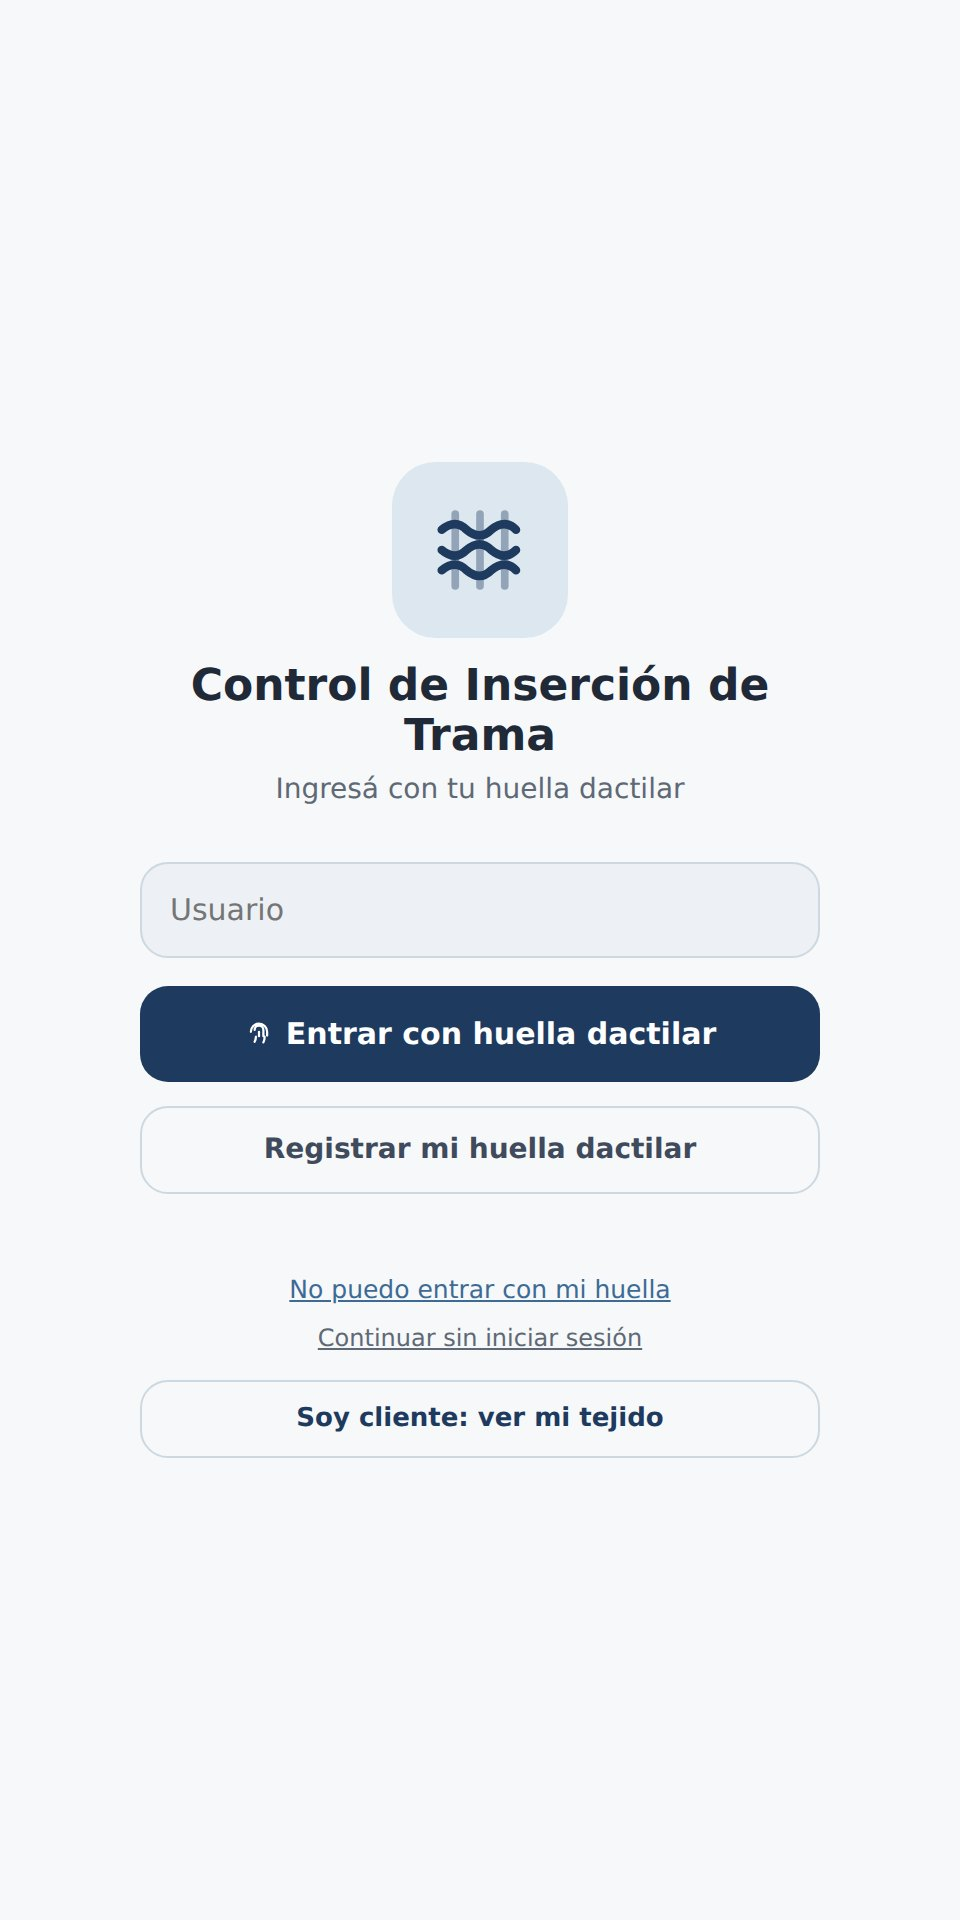
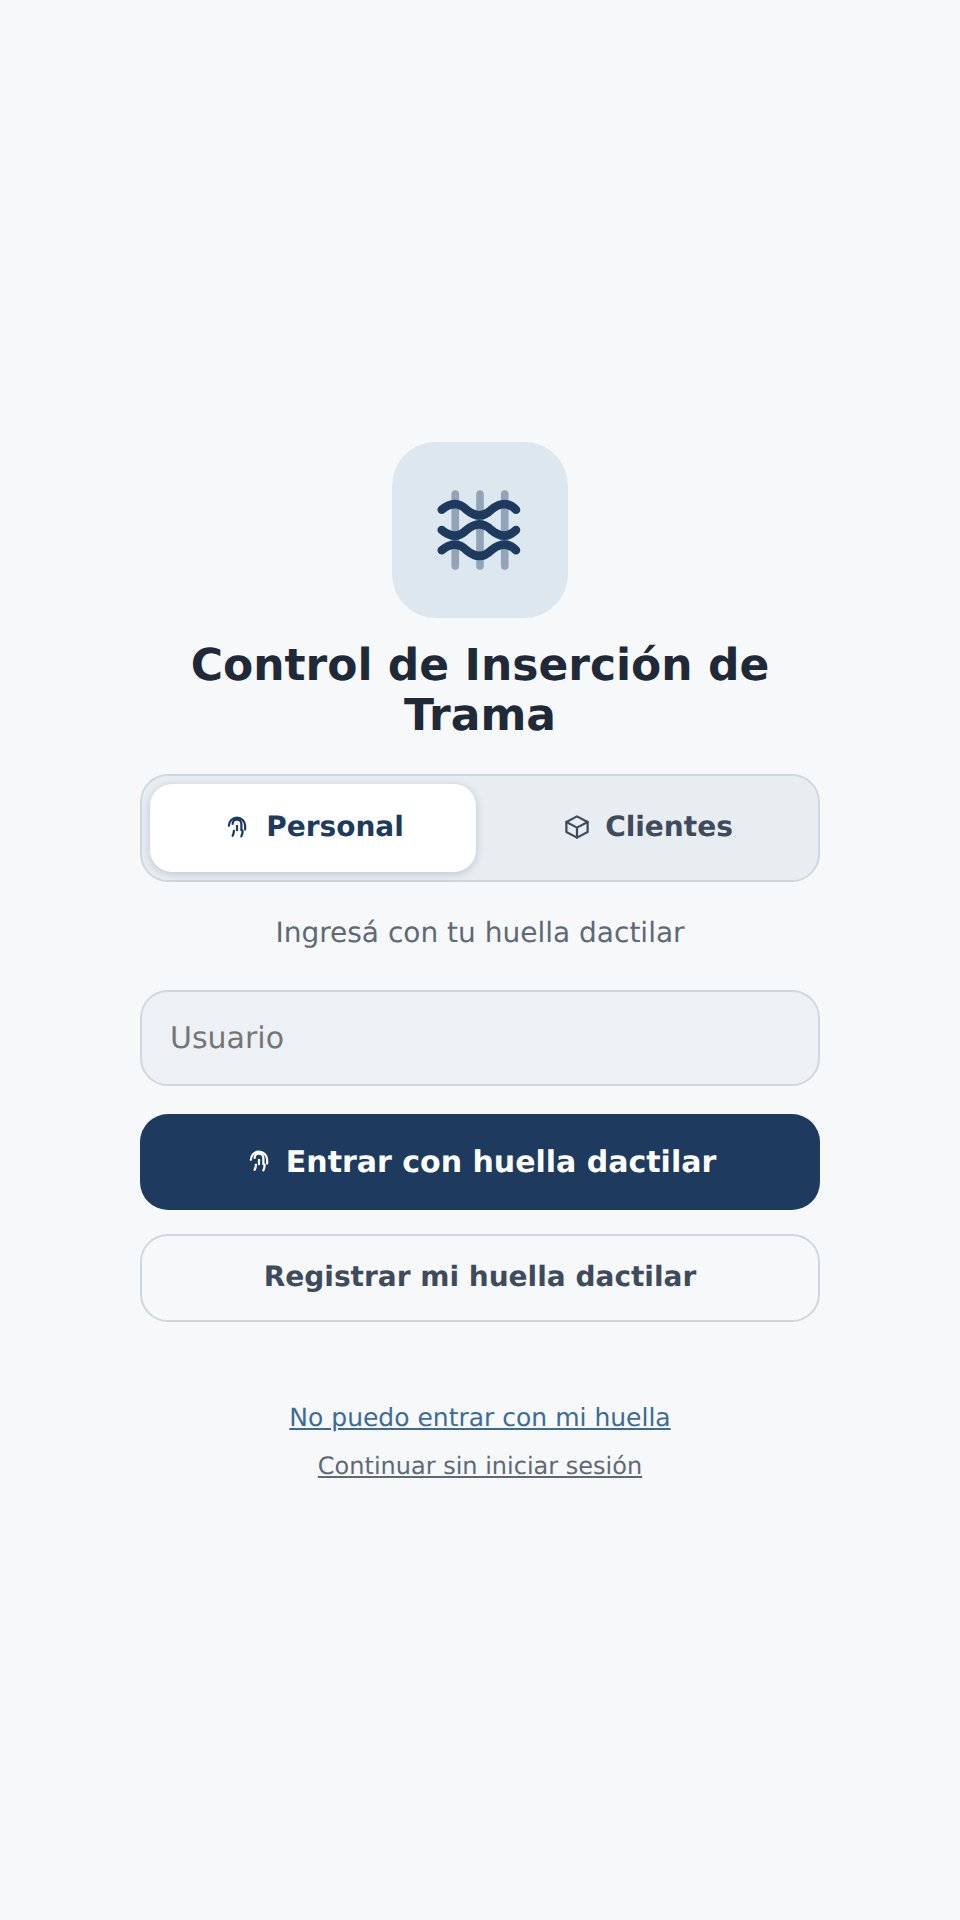
Add files via upload

Changed region(s): [[0.125, 0.2188, 0.875, 0.7812], [0.125, 0.4062, 0.1562, 0.4688]]

diff --git a/index.html b/index.html
@@ -44,7 +44,7 @@
 <a href="#s3-6" class="n1">3.6 · Evolución previsible del sistema</a>
 <a href="#s4" class="n0">4 · Requisitos Específicos</a>
 <a href="#s4-1" class="n1">4.1 · Requerimientos funcionales</a>
-<a href="#s4-2" class="n1">4.2 · Requerimentos No Funcionales (RNF)</a>
+<a href="#s4-2" class="n1">4.2 · Requerimientos No Funcionales (RNF)</a>
 <a href="#s4-3" class="n1">4.3 · Interfaces de usuario</a>
 <a href="#s4-4" class="n1">4.4 · Interfaces de software</a>
 <a href="#s4-5" class="n1">4.5 · Interfaces de comunicación</a>
@@ -160,7 +160,7 @@
 <li><b>Inicio:</b> pantalla de entrada. Muestra quién inició sesión (o el aviso de modo invitado), el dibujo que está en edición y los accesos al Editor y a la Biblioteca. Desde ahí se consulta el código de recuperación, se invita a otra persona a registrarse y se activa el modo oscuro.</li>
 <li><b>Editor de Dibujo:</b> grilla interactiva donde cada fila lleva una sola bobina (una trama por pasada), que se teje en una o más pasadas seguidas, y cada columna es una bobina de selección: tocar una celda la activa o la desactiva para esa pasada. Al costado de cada fila se indica cuántas pasadas seguidas se teje. Arriba se definen las filas (1 a 300) y las columnas (1 a 8), el nombre del dibujo con su indicador de estado, y una barra con el estado del equipo del telar (conexión, tejido y conteo del sensor) y el interruptor del control desde la página, que pasa a solo sensado (la página deja de mover la máquina y sigue mostrando lo que hace). Incluye las herramientas Limpiar, Intercalar (agrupa filas seguidas, cada una con su bobina, para que se alternen pasada por pasada: por ejemplo las filas de las bobinas 1, 3, 4 y 2 durante 120 pasadas), el simulador de color de hilo, la ficha del dibujo (metros por pasada, hilado y la clave del cliente) y la descarga de la ficha técnica en PDF; los controles ▶, Pausa, Retroceder y Terminar trabajo (⏹), que resaltan la fila que se está tejiendo; y los botones Nuevo y Guardar.</li>
 <li><b>Biblioteca de Dibujos:</b> pantalla con el listado de los dibujos guardados, un buscador por nombre y, para cada dibujo, las acciones Cargar (lo abre en el editor), Estadísticas (veces tejido, pasadas, metros y horas de máquina) y Eliminar. Cada cambio se guarda en la base PostgreSQL a través del backend, sin recargar la página.</li>
-<li><b>Vista del cliente:</b> pantalla aparte, de solo lectura, para los clientes de la fábrica. Se entra desde el ingreso, con «Soy cliente: ver mi tejido» y la clave de un tejido (la genera el operario en la ficha del dibujo), y muestra solo ese tejido: si se está tejiendo, por qué fila y pasada va, los metros tejidos y cuánto lleva del pedido, la vista previa de la tela y las últimas producciones. No tiene ningún control del telar.</li>
+<li><b>Vista del cliente:</b> pantalla aparte, de solo lectura, para los clientes de la fábrica. Se entra desde la pestaña «Clientes» de la pantalla de ingreso, con la clave de un tejido (la genera el operario en la ficha del dibujo), y muestra solo ese tejido: si se está tejiendo, por qué fila y pasada va, los metros tejidos y cuánto lleva del pedido, la vista previa de la tela y las últimas producciones. No tiene ningún control del telar.</li>
 </ul>
 <h4 id="s3-2-1">3.2.1. Guía de Estilos y Especificación Visual (Design System)</h4>
 <ul>
@@ -169,7 +169,7 @@
 </ul>
 <h4 id="s3-2-2">3.2.2. Arquitectura Backend y Modelo de Datos (PostgreSQL)</h4>
 <p>El backend, desarrollado en Node.js con Express, gestiona la lógica de negocio (transacciones, validaciones) y expone una API REST que es el único punto de acceso a la base de datos: tanto la web como el firmware del ESP32 hablan con este mismo backend por la misma API, y ninguno de los dos toca la base de datos de forma directa. La persistencia de datos se maneja en PostgreSQL, alojado en la nube sobre Neon, mediante el siguiente esquema relacional:</p>
-<div class="tw"><table><thead><tr><th scope="col">TABLA</th><th scope="col">CLAVE PRIMARIA</th><th scope="col">CAMPOS PRINCIPALES</th><th scope="col">PROPÓSITO</th></tr></thead><tbody><tr><td>patrones</td><td>id</td><td>nombre, filas (1 a 300), columnas (1 a 8), matriz_pasadas (JSONB), matriz_ligamento (JSONB), repeticiones_por_fila, colores_filas (JSONB), metadata (JSONB), metros_por_pasada, grupos_intercalados, hilado_peso_kg, hilado_metros_max, hilado_pasadas_base, creado_por_invitado</td><td>Biblioteca de matrices de tejido, independiente de los telares.</td></tr><tr><td>telares</td><td>id</td><td>codigo, nombre, estado (apagado/tejiendo/pausado/error), motivo_pausa, patron_actual_id, elementos_seleccion, control_web_activo (solo sensado) y las señales del ESP32 (último sondeo, órdenes de Retroceder, retrocesos contados, uso manual de la botonera, posición incierta)</td><td>Estado en tiempo real de cada máquina y qué patrón tiene asignado.</td></tr><tr><td>historial_producción</td><td>id</td><td>telar_id, patron_id, fecha_inicio, fecha_fin, fila_actual, repeticion_en_fila, vueltas_completadas, pasadas_totales (estimadas por reloj), pasadas_sensor (medidas), conteo_validado, estado</td><td>Trazabilidad de cada producción: posición exacta para poder retroceder, sin necesidad de reconstruir nada.</td></tr><tr><td>errores_log</td><td>id</td><td>telar_id, titulo, mensaje, codigo, creado_at</td><td>Registro de errores del sistema (reemplaza el log local que antes vivía en el navegador).</td></tr><tr><td>accesos_cliente</td><td>patron_id</td><td>cliente_nombre, clave_hash, clave_cifrada, metros_pedidos, creada_por, creada_at, ultimo_acceso</td><td>La clave con la que cada cliente ve su tejido (una por dibujo), sin guardarla legible.</td></tr></tbody></table></div>
+<div class="tw"><table><thead><tr><th scope="col">TABLA</th><th scope="col">CLAVE PRIMARIA</th><th scope="col">CAMPOS PRINCIPALES</th><th scope="col">PROPÓSITO</th></tr></thead><tbody><tr><td>patrones</td><td>id</td><td>nombre, filas (1 a 300), columnas (1 a 8), matriz_pasadas (JSONB), matriz_ligamento (JSONB), repeticiones_por_fila, colores_filas (JSONB), metadata (JSONB), metros_por_pasada, grupos_intercalados, hilado_peso_kg, hilado_metros_max, hilado_pasadas_base, creado_por_invitado</td><td>Biblioteca de matrices de tejido, independiente de los telares.</td></tr><tr><td>telares</td><td>id</td><td>codigo, nombre, estado (apagado, tejiendo, pausado o error), motivo_pausa, patron_actual_id, elementos_seleccion, control_web_activo (solo sensado) y las señales del ESP32 (último sondeo, órdenes de Retroceder, retrocesos contados, uso manual de la botonera, posición incierta)</td><td>Estado en tiempo real de cada máquina y qué patrón tiene asignado.</td></tr><tr><td>historial_producción</td><td>id</td><td>telar_id, patron_id, fecha_inicio, fecha_fin, fila_actual, repeticion_en_fila, vueltas_completadas, pasadas_totales (estimadas por reloj), pasadas_sensor (medidas), conteo_validado, estado</td><td>Trazabilidad de cada producción: posición exacta para poder retroceder, sin necesidad de reconstruir nada.</td></tr><tr><td>errores_log</td><td>id</td><td>telar_id, titulo, mensaje, codigo, creado_at</td><td>Registro de errores del sistema (reemplaza el log local que antes vivía en el navegador).</td></tr><tr><td>accesos_cliente</td><td>patron_id</td><td>cliente_nombre, clave_hash, clave_cifrada, metros_pedidos, creada_por, creada_at, ultimo_acceso</td><td>La clave con la que cada cliente ve su tejido (una por dibujo), sin guardarla legible.</td></tr></tbody></table></div>
 <p class="cap">Tabla 3. Entidades de la base de datos y su propósito.</p>
 <h4 id="s3-2-3">3.2.3. Esquema de Base de Datos y Estructura JSONB</h4>
 <figure><img src="ERD_completo.png" alt="Figura 1. Modelo entidad-relación de la base de datos del sistema.">
@@ -357,7 +357,7 @@ El conteo de pasadas se resuelve mediante el sensor inductivo del Bloque C, incl
 <h3 id="s4-1">4.1. Requerimientos funcionales <span class="utn">Buenas Prácticas UTN p.59/60</span></h3>
 <div class="tw"><table><thead><tr><th scope="col">ID</th><th scope="col">Nombre</th><th scope="col">Tipo</th><th scope="col">Descripción</th><th scope="col">Prioridad</th><th scope="col">Estado</th></tr></thead><tbody><tr><td>RF01</td><td>Interfaz base y consola de inicio</td><td>Esencial</td><td>Pantalla de inicio de alto contraste con la sesión, el dibujo en edición y los accesos al Editor y a la Biblioteca, legible a distancia.</td><td>Alta</td><td>Implementado</td></tr><tr><td>RF02</td><td>Editor matricial interactivo</td><td>Esencial</td><td>Lienzo cuadriculado donde el operario dibuja el ligamento tocando las celdas. Cada fila lleva una sola bobina (una trama por pasada), que se teje en una o más pasadas seguidas, y cada columna es una bobina de selección.</td><td>Alta</td><td>Implementado</td></tr><tr><td>RF03</td><td>Configuración dinámica de dimensiones</td><td>Esencial</td><td>Permite definir filas y columnas de la matriz (de 1 a 300 filas, y de 1 a 8 columnas, una por bobina de selección), para adaptarse a distintos telares sin tocar el código.</td><td>Alta</td><td>Implementado</td></tr><tr><td>RF04</td><td>Herramientas de agilidad en el diseño</td><td>Deseable</td><td>Limpiar la grilla, repeticiones por fila (una fila se teje hasta 9999 pasadas seguidas sin dibujarla de nuevo), Intercalar (agrupa filas seguidas para que se alternen pasada por pasada, como las de las bobinas 1, 3, 4 y 2 durante 120 pasadas), simulador de color de hilo y ficha técnica en PDF, para acelerar el trabajo del operario.</td><td>Media</td><td>Implementado</td></tr><tr><td>RF05</td><td>Persistencia CRUD de dibujos</td><td>Esencial</td><td>Biblioteca que permite crear, consultar, modificar y eliminar los dibujos guardados en la base de datos.</td><td>Alta</td><td>Implementado</td></tr><tr><td>RF06</td><td>Comandos de ejecución de máquina</td><td>Esencial</td><td>Botones de Marcha (▶), Pausa y Retroceder que accionan los relés del ESP32 sobre la botonera del telar. No hay un botón Detener aparte: Terminar trabajo (⏹) cierra la producción y, si el telar está tejiendo, lo para con el mismo relé de Pausa.</td><td>Alta</td><td>Implementado</td></tr><tr><td>RF07</td><td>Realimentación visual en tiempo real</td><td>Esencial</td><td>Mientras el telar teje, la pantalla resalta la fila que se está ejecutando y muestra el estado real de la máquina.</td><td>Alta</td><td>Implementado</td></tr><tr><td>RF08</td><td>Retroceso de una pasada</td><td>Esencial</td><td>Permite retroceder el tejido una pasada completa: pausa la ejecución, mueve la posición una pasada atrás y pulsa el relé de Retroceder del telar.</td><td>Alta</td><td>Implementado</td></tr><tr><td>RF09</td><td>Resiliencia ante caídas de red</td><td>Esencial</td><td>Ante cortes de WiFi o caída del backend, el firmware permanece inactivo (fail-safe) en vez de accionar la máquina con información desactualizada.</td><td>Alta</td><td>Implementado</td></tr><tr><td>RF10</td><td>Sensado del uso manual de la botonera</td><td>Esencial</td><td>Si un operario aprieta Marcha, Pausa o Retroceder en la máquina, el ESP32 lo detecta por optoacoplador y la web refleja el estado real del telar.</td><td>Alta</td><td>Implementado</td></tr><tr><td>RF11</td><td>Modo solo sensado</td><td>Deseable</td><td>Un interruptor en la página apaga y prende el control del telar desde la web. Apagado, la página no arranca, no pausa ni retrocede la máquina (el backend rechaza las órdenes y el ESP32 no acciona los relés), y el sensado de la botonera y del sensor sigue funcionando.</td><td>Media</td><td>Implementado</td></tr><tr><td>RF12</td><td>Vista de solo lectura para clientes</td><td>Deseable</td><td>Cada dibujo puede tener una clave única con la que su cliente ve solo ese tejido: el estado, la fila y la pasada, los metros tejidos, el avance del pedido, la vista previa de la tela y la producción, sin ningún control del telar. La clave se puede cambiar o quitar en cualquier momento.</td><td>Media</td><td>Implementado</td></tr></tbody></table></div>
 <p class="cap">Tabla 6. Requerimientos funcionales del sistema.</p>
-<h3 id="s4-2">4.2. Requerimentos No Funcionales (RNF) <span class="utn">Buenas Prácticas UTN p.59/60</span></h3>
+<h3 id="s4-2">4.2. Requerimientos No Funcionales (RNF) <span class="utn">Buenas Prácticas UTN p.59/60</span></h3>
 <div class="tw"><table><thead><tr><th scope="col">ID</th><th scope="col">Categoría</th><th scope="col">Nombre</th><th scope="col">Descripción</th><th scope="col">Prioridad</th></tr></thead><tbody><tr><td>RNF01</td><td>Desempeño</td><td>Desempeño y latencia</td><td>El ESP32 sondea el backend cada 2,5 s y el pulso del relé dura 300 ms: una orden dada en la web se refleja en la máquina en menos de 3 segundos.</td><td>Alta</td></tr><tr><td>RNF02</td><td>Fiabilidad</td><td>Arranque seguro</td><td>Al energizarse o reiniciarse, ningún relé debe accionarse. Se garantiza con resistencias de polarización externas y escribiendo el nivel de reposo antes de configurar los pines.</td><td>Crítica</td></tr><tr><td>RNF03</td><td>Usabilidad</td><td>Ergonomía de interfaz táctil</td><td>Botones y celdas pensados para tocarse con el dedo (los controles del tejido miden 40 px y las celdas de la grilla, de 28 a 42 px según la cantidad de columnas), alto contraste y tipografía legible, para operarse con la iluminación deficiente de la fábrica.</td><td>Alta</td></tr><tr><td>RNF04</td><td>Seguridad</td><td>Aislamiento eléctrico</td><td>Todo contacto con el telar se hace por contacto seco de relé u optoacoplador. El sistema se alimenta de una fuente propia de 220 V, independiente de la máquina.</td><td>Crítica</td></tr><tr><td>RNF05</td><td>Mantenibilidad</td><td>Respaldo y recuperación de datos</td><td>Restauración instantánea de 6 horas más respaldo automático diario. La restauración se prueba en cada visita de mantenimiento.</td><td>Alta</td></tr><tr><td>RNF06</td><td>Portabilidad</td><td>Independencia de dispositivo</td><td>Funciona en el navegador de cualquier celular o computadora de la fábrica, sin instalación previa.</td><td>Media</td></tr><tr><td>RNF07</td><td>Fiabilidad</td><td>Tolerancia ambiental</td><td>Gabinete IP65 montado fuera del chasis para no recibir vibración, con la placa protegida con barniz dieléctrico contra la pelusa textil.</td><td>Alta</td></tr></tbody></table></div>
 <p class="cap">Tabla 7. Requerimientos no funcionales del sistema.</p>
 <h3 id="s4-3">4.3. Interfaces de usuario <span class="utn">Buenas Prácticas UTN p.58</span></h3>
@@ -384,7 +384,7 @@ El conteo de pasadas se resuelve mediante el sensor inductivo del Bloque C, incl
 <p>Búsqueda por nombre, que no distingue mayúsculas ni tildes.</p>
 <p>Estadísticas de cada dibujo: veces tejido, pasadas, metros y horas de máquina (aproximadas hasta que se valide el conteo del sensor).</p>
 <p>Vista del cliente:</p>
-<p>Se entra desde el ingreso con «Soy cliente: ver mi tejido» y la clave del tejido, sin usuario ni huella.</p>
+<p>Se entra desde la pestaña «Clientes» de la pantalla de ingreso, con la clave del tejido, sin usuario ni huella.</p>
 <p>Muestra solo ese tejido: estado, fila y pasada, metros tejidos, avance del pedido, vista previa de la tela y producción. Se actualiza sola y no tiene ningún control.</p>
 <p>La clave se genera, se cambia o se quita desde la ficha del dibujo, en el Editor.</p>
 <figure class="pant"><img src="doc-fig4.png" alt="Figura 4. Pantalla de ingreso con huella dactilar."><figcaption>Figura 4. Pantalla de ingreso con huella dactilar.</figcaption></figure>
@@ -503,7 +503,7 @@ Para la etapa actual del proyecto se resolvió continuar con el servicio existen
 <p>El presupuesto se organiza en cuatro bloques de compra y confirma que toda la arquitectura de software seleccionada es de uso libre, con costo de licenciamiento mensual de $0. Los valores corresponden a la revisión del 20/10/2026 y se mantienen actualizados en la planilla del equipo (Lista_de_componentes_Control_Trama.xlsx y Estimacion_Costos_Ganancia_Contrato_v4.docx).</p>
 <figcaption>Figura 13. Estructura de costos del proyecto.</figcaption></figure>
 <p>Los componentes efectivamente adquiridos para el Bloque A suman $73.653, a los que se agregan $13.950 del Bloque C y $34.536 del Bloque D, totalizando $122.139 en materiales. Sumando los gastos operativos de $109.675 y el valor del trabajo del equipo, valuado en $31.844.539 según las tarifas del proyecto, el costo total asciende a $32.076.353. Aplicando el margen del 25 % previsto, el presupuesto final es de $40.095.441, con una ganancia proyectada de $8.019.088.</p>
-<div class="tw"><table><thead><tr><th scope="col">BLOQUE DE COMPRA</th><th scope="col">CONTENIDO</th><th scope="col">CUÁNDO COMPRARLO</th><th scope="col">¿GRATIS/PRESTADO?</th><th scope="col">SUBTOTAL</th></tr></thead><tbody><tr><td>Bloque A, Nivel 1 (control y sensado)</td><td>ESP32, dos módulos de relé (uno de 2 canales y uno individual, 3 salidas en total), fuente HLK-5M05 220V→5V, fusible lento 1A, 3 optoacopladores PC817 con sus puentes rectificadores y resistencias limitadoras, 6 resistencias de polarización, capacitores de desacople, gabinete IP65, prensacables, borneras, cable multifilar de 6 conductores y 1 mm² y placa universal.</td><td>Etapa 4</td><td>No</td><td>$73.653</td></tr><tr><td>Bloque C, Sensor de pasada</td><td>Sensor inductivo LJ12A3-4-Z/BX (ya adquirido), optoacoplador y resistencias de adaptación de nivel, más el soporte de montaje (ya construido y montado el 10/09/2026).</td><td>Incluido en esta etapa</td><td>No</td><td>$13.950</td></tr><tr><td>Bloque D, Nivel 2 (selección del dibujo)</td><td>Intervención de las 4 bobinas de selección ya instaladas en el telar, que trabajan con 24 V en alterna: relés OptoMOS LCA110 (uno por lector óptico) con sus zócalos y sus resistencias (330 Ω y 10 kΩ del lado del ESP32; de protección y 10 kΩ ½ W del lado del telar). Las bobinas se siguen alimentando desde el propio telar.</td><td>Después de medir (medido el 17/10)</td><td>No</td><td>$34.536 (faltan dos precios de la lista)</td></tr><tr><td>TOTAL DEL PROYECTO</td><td>Bloques A, C y D.</td><td>-</td><td>-</td><td>$122.139</td></tr></tbody></table></div>
+<div class="tw"><table><thead><tr><th scope="col">BLOQUE DE COMPRA</th><th scope="col">CONTENIDO</th><th scope="col">CUÁNDO COMPRARLO</th><th scope="col">¿GRATIS/PRESTADO?</th><th scope="col">SUBTOTAL</th></tr></thead><tbody><tr><td>Bloque A, Nivel 1 (control y sensado)</td><td>ESP32, dos módulos de relé (uno de 2 canales y uno individual, 3 salidas en total), fuente HLK-5M05 220V→5V, fusible lento 1A, 3 optoacopladores PC817 con sus puentes rectificadores y resistencias limitadoras, 6 resistencias de polarización, capacitores de desacople, gabinete IP65, prensacables, borneras, cable multifilar de 6 conductores y 1 mm² y placa universal.</td><td>Etapa 4</td><td>No</td><td>$73.653</td></tr><tr><td>Bloque C, Sensor de pasada</td><td>Sensor inductivo LJ12A3-4-Z/BX (ya adquirido), optoacoplador y resistencias de adaptación de nivel, más el soporte de montaje (ya construido y montado el 10/09/2026).</td><td>Incluido en esta etapa</td><td>No</td><td>$13.950</td></tr><tr><td>Bloque D, Nivel 2 (selección del dibujo)</td><td>Intervención de las 4 bobinas de selección ya instaladas en el telar, que trabajan con 24 V en alterna: relés OptoMOS LCA110 (uno por lector óptico) con sus zócalos y sus resistencias (330 Ω y 10 kΩ del lado del ESP32; de protección y 10 kΩ ½ W del lado del telar). Las bobinas se siguen alimentando desde el propio telar.</td><td>Después de medir (medido el 17/10)</td><td>No</td><td>$34.536 (faltan los precios de nueve ítems de la lista)</td></tr><tr><td>TOTAL DEL PROYECTO</td><td>Bloques A, C y D.</td><td>-</td><td>-</td><td>$122.139</td></tr></tbody></table></div>
 <p class="cap">Tabla 15. Bloques de compra: contenido, oportunidad y subtotal.</p>
 <p>La estructura de costos muestra que el 99,3 % corresponde al trabajo del equipo y solo el 0,7 % ($231.814, materiales y gastos operativos) a dinero efectivamente desembolsado. Orden de compra recomendado: (1) Bloque A, ya adquirido e instalado en el telar; (2) la medición del lector óptico en el telar, hecha el 17/10/2026 (entre 15 y 30 V); y (3) lo que falta de los Bloques C y D (el sensor ya se compró y el relé LCA110 se probó en la máquina), con la resistencia de protección de 470 Ω 3 W que fijó esa medición. La planilla completa, con el detalle por ítem y los precios de referencia, se mantiene en el archivo Lista_de_componentes_Control_Trama.xlsx de la carpeta compartida del equipo.</p>
 <ul>
